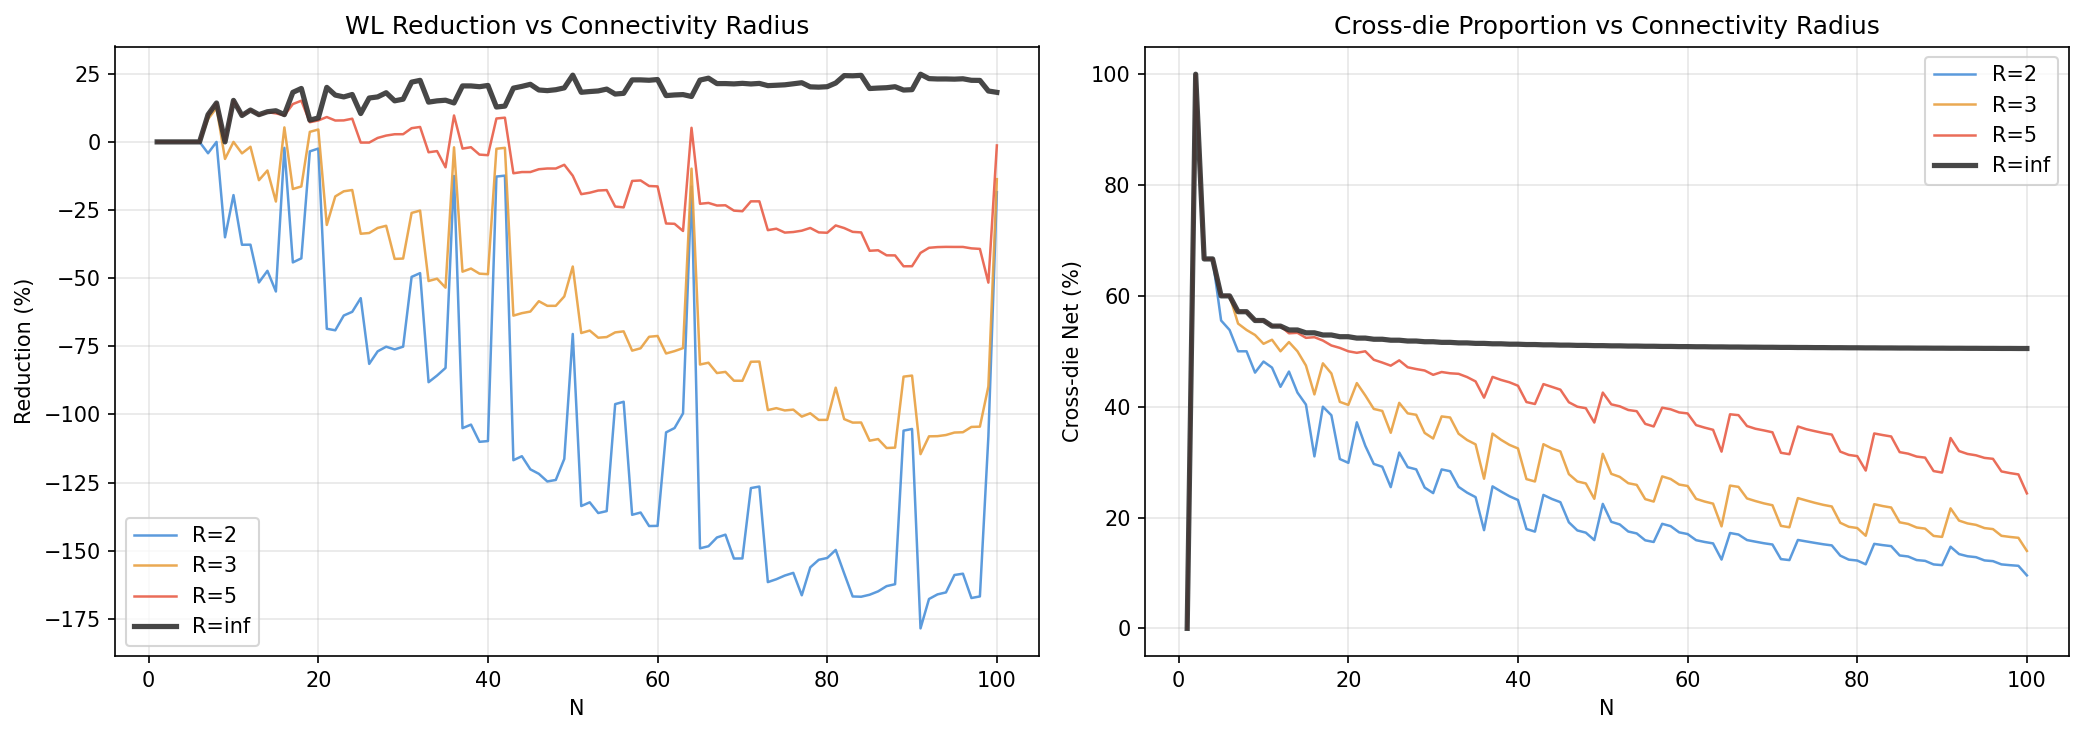
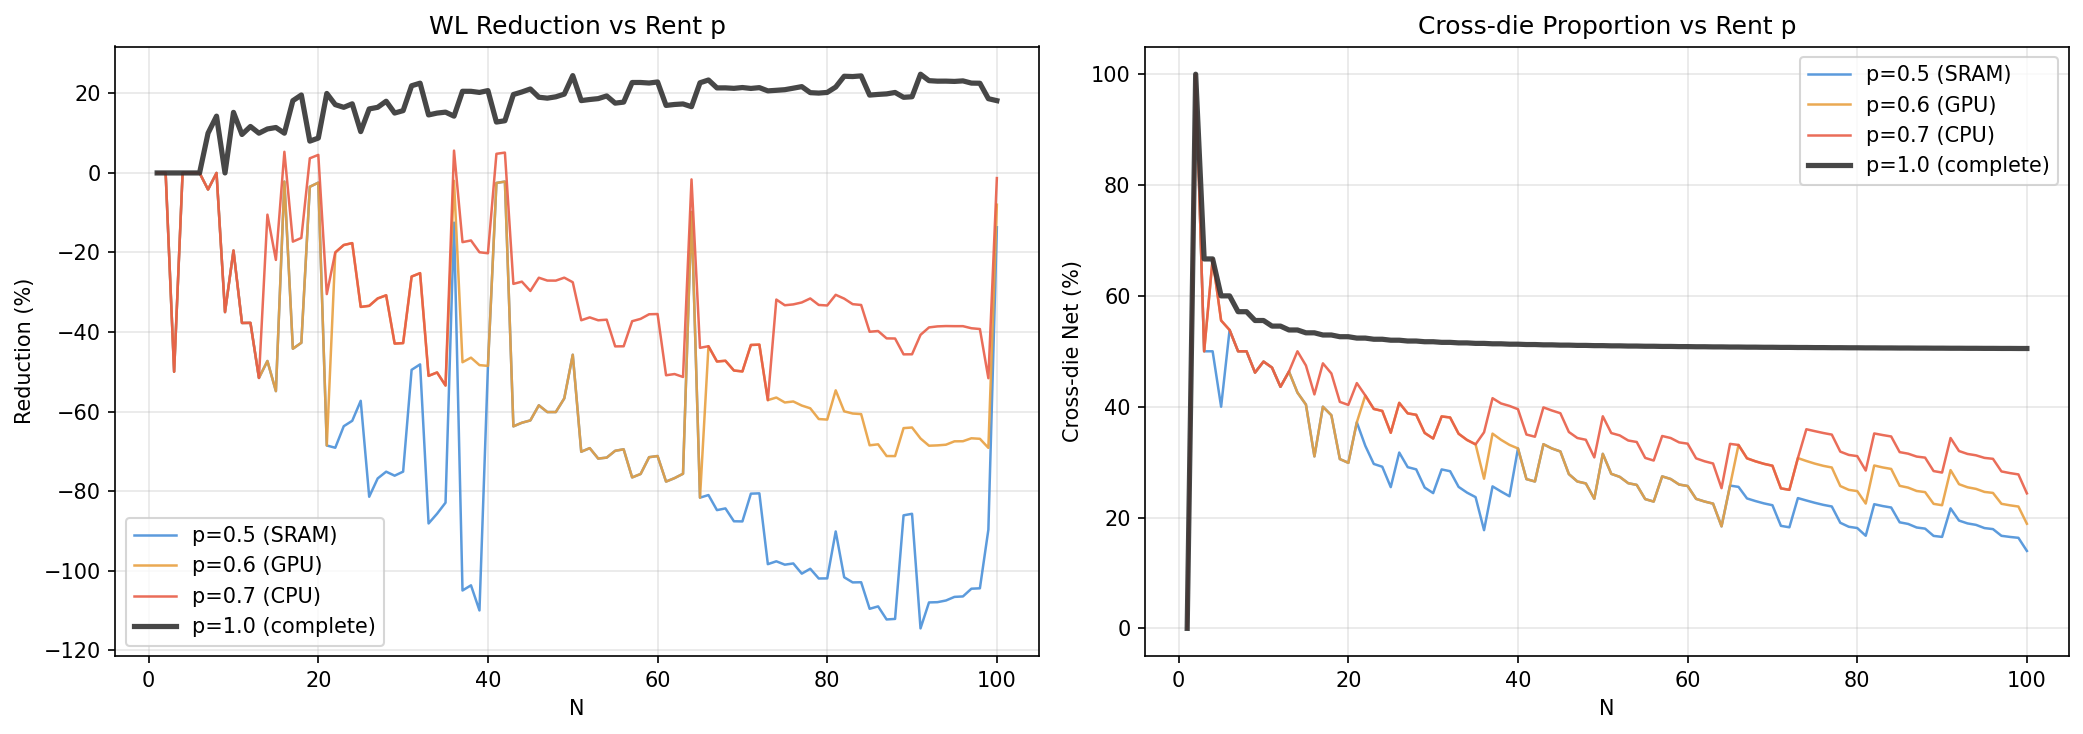
fix: use Rent p directly (not radius proxy) — real circuits show negative 3D WL benefit

diff --git a/experiment.py b/experiment.py
@@ -113,6 +113,15 @@ def generate_edges_by_radius(p2: list, n: int, radius: int | None) -> list:
     return edges
 
 
+def rent_radius(n: int, p: float) -> int:
+    """Rent-constrained connectivity radius: R = round(N^(p/2))."""
+    if p >= 1.0:
+        return None  # complete graph
+    if n <= 1:
+        return 0
+    return max(1, round(n ** (p / 2)))
+
+
 def avg_wirelength(total_wl: int, n: int) -> float:
     """Average wirelength per edge."""
     num_edges = n * (n - 1) / 2
@@ -672,16 +681,17 @@ def plot_aand_aor_diagram(save_path: str | None = None):
 
 
 def print_radius_comparison(n_max: int = 100):
-    radii = [2, 3, 5, None]
+    pvals = [0.5, 0.6, 0.7, 1.0]
     print(f"\n{'='*80}")
-    print(f"Experiment 6: Connectivity Radius (N=1..{n_max})")
+    print(f"Experiment 6: Rent-constrained Graphs (N=1..{n_max})")
     print(f"{'='*80}")
-    print(f"{'Radius':>8}  {'# edges':>10}  {'WL_2D':>10}  {'WL_3D':>10}  {'ratio':>7}  {'reduct%':>7}  {'cross%':>7}")
+    print(f"{'Rent p':>8}  {'# edges':>10}  {'WL_2D':>10}  {'WL_3D':>10}  {'ratio':>7}  {'reduct%':>7}  {'cross%':>7}")
     print("-" * 80)
-    for R in radii:
+    for p in pvals:
         t2, t3, te, tc = 0, 0, 0, 0
         for n in range(1, n_max + 1):
             p2 = pos_2d(n); p3 = pos_3d(n)
+            R = rent_radius(n, p)
             edges = generate_edges_by_radius(p2, n, R)
             ec = len(edges) if edges else n * (n - 1) // 2
             w2 = total_wirelength(p2, manhattan_2d, n, edges)
@@ -693,8 +703,7 @@ def print_radius_comparison(n_max: int = 100):
                 c = math.ceil(n / 2); f = n - c; tc += c * f
         r = t3 / t2 if t2 else 1
         cp = tc / te * 100 if te else 0
-        rs = "inf" if R is None else str(R)
-        print(f"{rs:>8}  {te:>10}  {t2:>10}  {t3:>10}  {r:>7.4f}  {(1-r)*100:>6.1f}%  {cp:>6.1f}%")
+        print(f"{p:>8.1f}  {te:>10}  {t2:>10}  {t3:>10}  {r:>7.4f}  {(1-r)*100:>6.1f}%  {cp:>6.1f}%")
     print(f"{'='*80}")
 
 
@@ -703,34 +712,35 @@ def plot_radius_comparison(n_max: int = 100, save_path: str | None = None):
         import matplotlib.pyplot as plt
     except ImportError:
         return
-    radii = [2, 3, 5, None]
-    labels = ["R=2", "R=3", "R=5", "R=inf"]
-    reds = {r: [] for r in radii}
-    cross = {r: [] for r in radii}
+    pvals = [0.5, 0.6, 0.7, 1.0]
+    labels = ["p=0.5 (SRAM)", "p=0.6 (GPU)", "p=0.7 (CPU)", "p=1.0 (complete)"]
+    reds = {p: [] for p in pvals}
+    cross = {p: [] for p in pvals}
     Ns = list(range(1, n_max + 1))
-    for R in radii:
+    for p in pvals:
         for n in Ns:
             p2 = pos_2d(n); p3 = pos_3d(n)
+            R = rent_radius(n, p)
             edges = generate_edges_by_radius(p2, n, R)
             ec = len(edges) if edges else n * (n - 1) // 2
             w2 = total_wirelength(p2, manhattan_2d, n, edges)
             w3 = total_wirelength(p3, manhattan_3d, n, edges)
-            reds[R].append((1 - w3/w2) * 100 if w2 else 0)
+            reds[p].append((1 - w3/w2) * 100 if w2 else 0)
             if edges:
                 cc = sum(1 for i, j in edges if p3[i][2] != p3[j][2])
             else:
                 c = math.ceil(n / 2); f = n - c; cc = c * f
-            cross[R].append(cc / ec * 100 if ec else 0)
+            cross[p].append(cc / ec * 100 if ec else 0)
     fig, (ax1, ax2) = plt.subplots(1, 2, figsize=(14, 5))
     colors = ["#4A90D9", "#E8A040", "#E85D47", "#333333"]
-    for R, lb, co in zip(radii, labels, colors):
-        lw = 2.5 if R is None else 1.2
-        ax1.plot(Ns, reds[R], color=co, lw=lw, alpha=0.9, label=lb)
-        ax2.plot(Ns, cross[R], color=co, lw=lw, alpha=0.9, label=lb)
+    for p, lb, co in zip(pvals, labels, colors):
+        lw = 2.5 if p == 1.0 else 1.2
+        ax1.plot(Ns, reds[p], color=co, lw=lw, alpha=0.9, label=lb)
+        ax2.plot(Ns, cross[p], color=co, lw=lw, alpha=0.9, label=lb)
     ax1.set_xlabel("N"); ax1.set_ylabel("Reduction (%)")
-    ax1.set_title("WL Reduction vs Connectivity Radius"); ax1.legend(); ax1.grid(True, alpha=0.3)
+    ax1.set_title("WL Reduction vs Rent p"); ax1.legend(); ax1.grid(True, alpha=0.3)
     ax2.set_xlabel("N"); ax2.set_ylabel("Cross-die Net (%)")
-    ax2.set_title("Cross-die Proportion vs Connectivity Radius"); ax2.legend(); ax2.grid(True, alpha=0.3)
+    ax2.set_title("Cross-die Proportion vs Rent p"); ax2.legend(); ax2.grid(True, alpha=0.3)
     fig.tight_layout()
     if save_path:
         Path(save_path).parent.mkdir(parents=True, exist_ok=True)

diff --git a/README.md b/README.md
@@ -266,27 +266,27 @@ $$\frac{A_T + A_B - A_{AND}}{A_T + A_B}$$
 
 ---
 
-## 实验六：连通半径 ≈ Rent 约束的代理
+## 实验六：Rent 约束下的 3D 收益
 
-不以 $p$ 直接生成图，而是用一个更直观的控制变量——**每个单元只连接曼哈顿距离 ≤R 的邻居**。R 越小互联越局部（低 Rent），R 越大越接近完全图（高 Rent）。
+将完全图替换为 Rent 约束图：每个单元连接曼哈顿距离 ≤R 的邻居，其中 R = N^(p/2)。p 直接取真实 Rent 指数，不再用代理。
 
 ### 结果（N=1..100 汇总）
 
-| 半径 | 总边数 | 2D 线长 | 3D 线长 | 比值 | 收益 | 跨 Die% |
-|------|--------|---------|---------|------|------|---------|
-| R=2 | 23639 | 38563 | 87706 | 2.27 | **−127.4%** | 16.6% |
-| R=3 | 42464 | 95038 | 170688 | 1.80 | −79.6% | 23.4% |
-| R=5 | 83849 | 281301 | 355025 | 1.26 | −26.2% | 35.2% |
-| R=∞ | 166650 | 971077 | 767429 | 0.79 | **+21.0%** | 50.8% |
+| Rent p | 对应电路 | 总边数 | 2D 线长 | 3D 线长 | 比值 | 收益 | 跨 Die% |
+|--------|---------|--------|---------|---------|------|------|---------|
+| 0.5 | SRAM | 40483 | 89102 | 164634 | 1.85 | **−84.8%** | 22.1% |
+| 0.6 | GPU | 55706 | 148371 | 234786 | 1.58 | −58.2% | 26.9% |
+| 0.7 | CPU | 73577 | 231375 | 314526 | 1.36 | −35.9% | 32.1% |
+| 1.0 | 全互连 | 166650 | 971077 | 767429 | 0.79 | **+21.0%** | 50.8% |
 
 ![Radius](output/plot_radius.png)
 
 ### 规律
 
-- **R≤5 时 3D 全线亏损**——因为短距离连接（d₂≤4）在 3D 中会变长（呼应实验四）。当图中不存在长线时，3D 的层间代价成了纯损耗
-- **3D 的正向收益完全来自长线（d₂≥6）**——只有 R=∞（全互连）包含足够多的长线，才看到 +21% 的正收益
-- 跨 Die 占比随 R 减小而急剧下降：R=∞ 时 50% → R=2 时仅 16.6%
-- 这说明 **Rent 约束越低（R 越小），跨 Die 压力和线长收益同步消失**。Agent 拿到低 Rent 设计应当降低 3D 探索优先级
+- **真实 Rent 值（p=0.5~0.7）下，3D 全线亏损**——因为局部互联设计中长线极少，层间 z 代价变成纯损耗
+- 3D 的正向收益完全来自 p 接近 1 时的长距离互联。p 越小亏损越严重
+- 跨 Die 占比随 p 急剧下降：p=1 时 50% → p=0.5 时仅 22%
+- **这意味着在真实电路 Rent 约束下，双 Die 堆叠的线长收益不存在——3D 的价值不在缩短线长，而在面积和集成密度**
 
 ---
 
